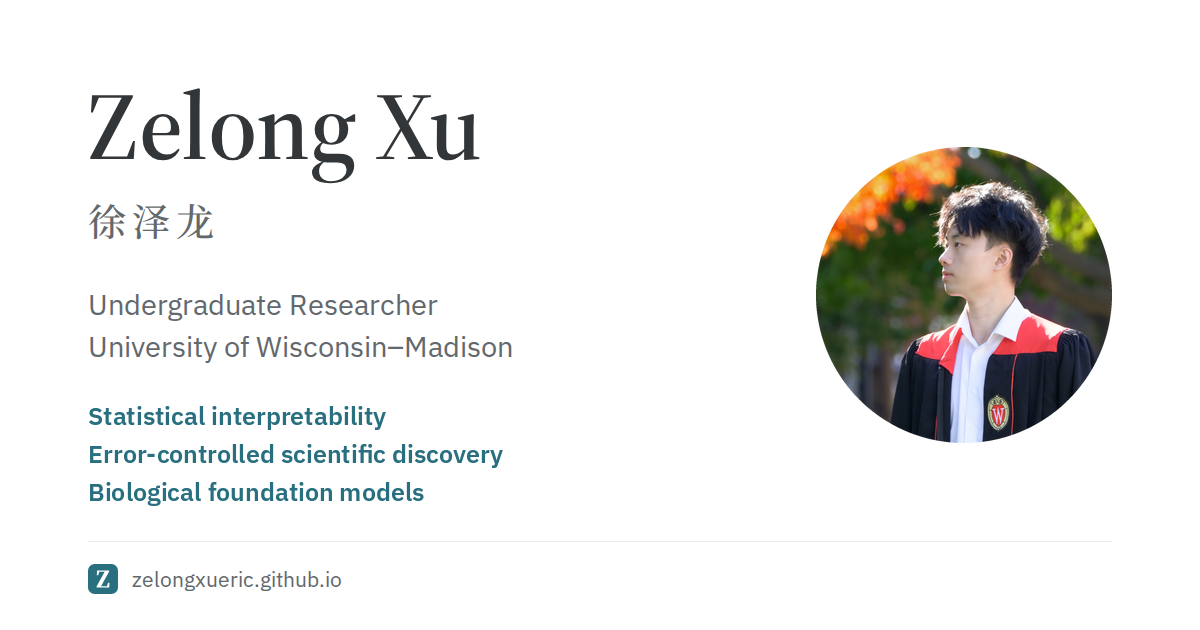
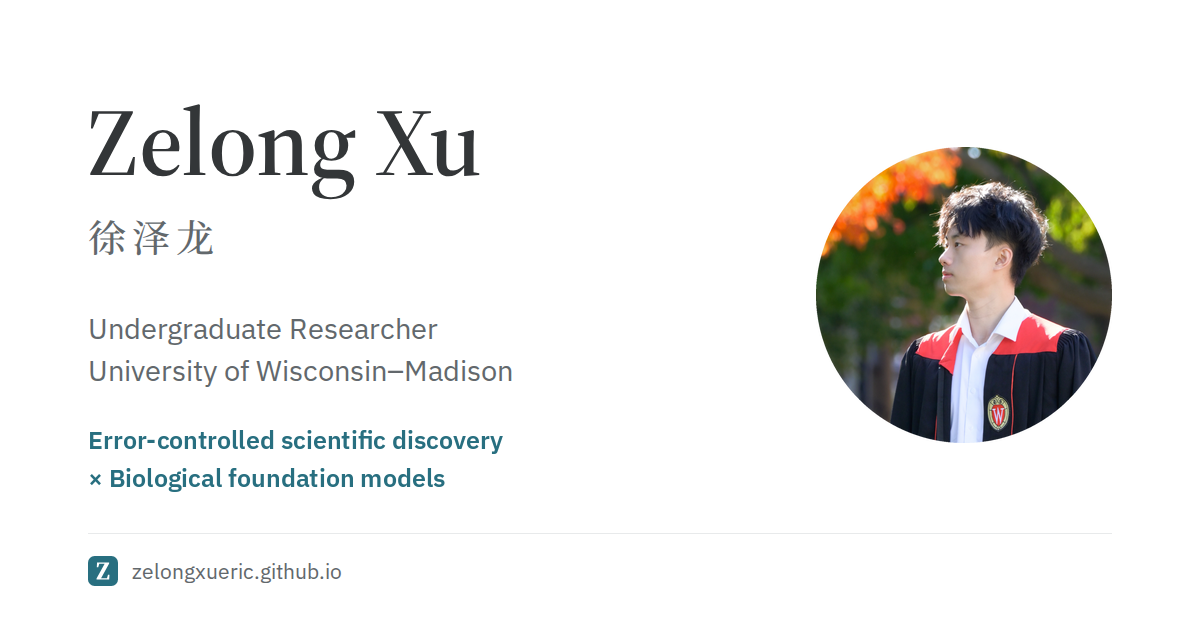
Set two research interests in handwriting with a cross between
The interests are now "Error-controlled scientific discovery" and
"Biological foundation models", set in Caveat and centered on one another
with a small hand-drawn cross between them. The status line is plain text
again, and the social preview lists the same two interests.

diff --git a/src/styles/global.css b/src/styles/global.css
@@ -12,6 +12,14 @@
   font-weight: 200 900;
   src: url('@fontsource-variable/source-serif-4/files/source-serif-4-latin-opsz-normal.woff2') format('woff2');
 }
+/* Caveat (SIL OFL 1.1) is used only for the research interests in the introduction. */
+@font-face {
+  font-family: 'Caveat';
+  font-style: normal;
+  font-display: swap;
+  font-weight: 500;
+  src: url('@fontsource/caveat/files/caveat-latin-500-normal.woff2') format('woff2');
+}
 /* Noto Serif SC (SIL OFL 1.1), subset to the three characters of the Chinese name. */
 @font-face {
   font-family: 'Noto Serif SC Name';
@@ -30,6 +38,7 @@
   --accent-hover: #174956;
   --rule: #e8eaeb;
   --serif: 'Source Serif 4 Variable', Georgia, 'Times New Roman', serif;
+  --hand: 'Caveat', 'Segoe Print', 'Bradley Hand', cursive;
   --serif-zh: 'Noto Serif SC Name', 'Songti SC', 'Noto Serif CJK SC', 'Source Han Serif SC', STSong, serif;
   font-family: 'IBM Plex Sans Variable', -apple-system, BlinkMacSystemFont, 'Segoe UI', sans-serif;
   font-size: 16px;

diff --git a/README.md b/README.md
@@ -19,7 +19,7 @@ npm run preview
 | File | Purpose |
 | --- | --- |
 | `src/content/profile.yaml` | Identity, city, affiliation, application status, profile links |
-| `src/content/about.md` | The introduction: a paragraph, the list of research interests, a paragraph |
+| `src/content/about.md` | The introduction: a paragraph, the list of research interests, a sentence |
 | `src/content/portrait.jpg` | Square portrait crop, optimized at build time and shown as a circle |
 | `src/content/publications/*.md` | One research item per file |
 | `src/content/publications/figures/` | One figure per paper, optimized at build time |
@@ -110,10 +110,12 @@ size, e.g. `ffmpeg -i in.mp4 -vf scale=854:-2 -c:v libx264 -preset slow -crf 27
 
 ## Introduction and its figure
 
-In `about.md`, the first list is the research interests. Its items are set in
-serif, one to a line, under a small "Research interests" label, with the figure
-beside them (below them on a phone); the paragraphs before and after the list
-are ordinary text. Without a list there are no interests and no figure.
+In `about.md`, the first list is the research interests. Its items are set in a
+handwriting face under a small "Research interests" label, one to a line and
+centered on one another, with a hand-drawn cross between them to say that the
+work lies where they meet. The figure is beside them (below them on a phone);
+the paragraphs before and after the list are ordinary text. Without a list there
+are no interests and no figure.
 
 The figure is a ribbon diagram of protein GB1 (PDB 1PGA), in ink with a wash of
 color, and it has no text. The ribbon is drawn along the chain: arrows for the
@@ -146,8 +148,8 @@ and the resting view are constants at the top of `src/lib/contactFigure.ts`.
 
 ## Typography
 
-IBM Plex Sans is the text face. The English name and the research interests use
-Source Serif 4. The
+IBM Plex Sans is the text face. The English name uses Source Serif 4, and the
+research interests use Caveat (SIL OFL 1.1), a handwriting face. The
 Chinese name (`nameZh` in `profile.yaml`)
 uses Noto Serif SC (SIL OFL 1.1), subset to exactly 徐泽龙 in
 `src/assets/fonts/noto-serif-sc-name.woff2` (2.5 KB). If the name changes,

diff --git a/src/content/about.md b/src/content/about.md
@@ -1,6 +1,5 @@
 I am an undergraduate at the [University of Wisconsin-Madison](https://www.wisc.edu/), studying Statistics with certificates in Computer Science and Mathematics. I have been fortunate to work with [Yang Lu](https://batmen-lab.github.io/), [Yue Zhao](https://viterbi-web.usc.edu/~yzhao010/), and [Xiyang Hu](https://xiyanghu.github.io/).
 
-- Statistical interpretability
 - Error-controlled scientific discovery
 - Biological foundation models
 
